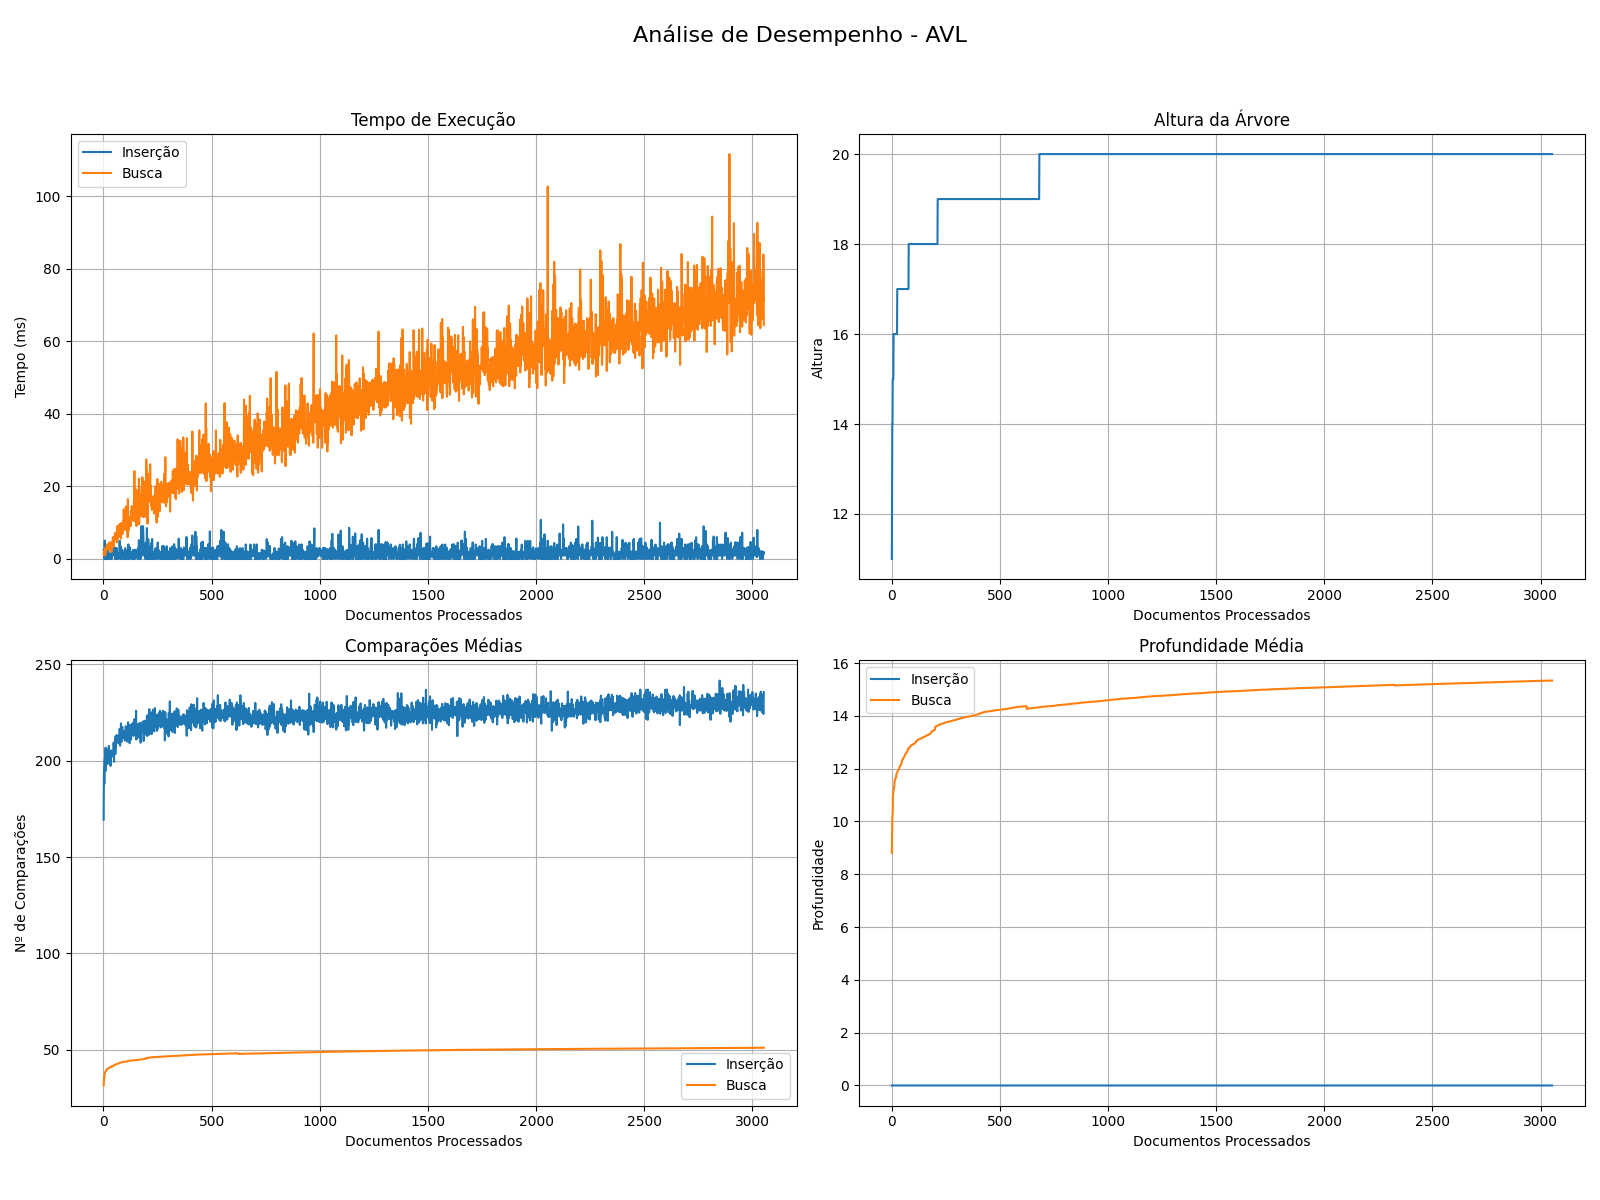
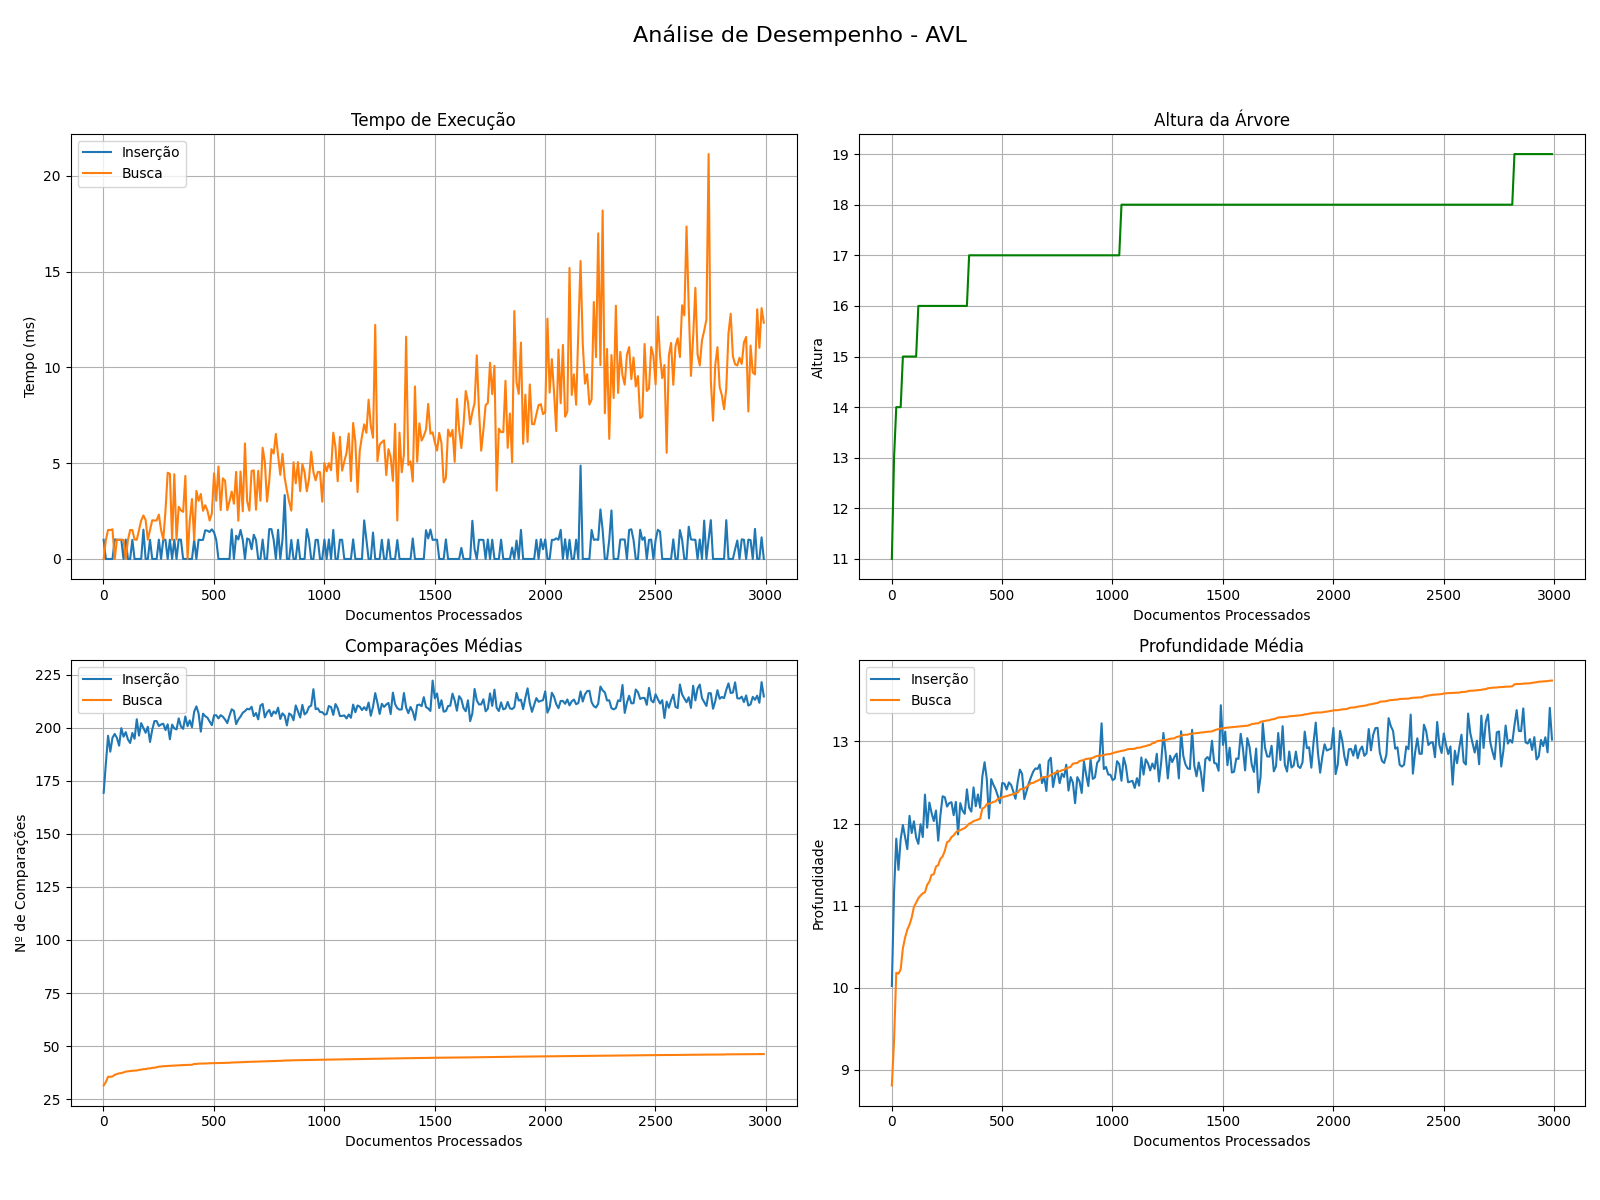
Graficos e relatório atualizado

diff --git a/analysis/bst.py b/analysis/bst.py
@@ -3,7 +3,8 @@ import matplotlib.pyplot as plt
 import os
 
 def plot_all_metrics_separately(df, tree_name, output_dir):
-    """Gera 6 gráficos de desempenho, um para cada métrica principal, em arquivos separados."""
+    """Gera 6 gráficos de desempenho, um para cada métrica principal, e um grafico agrupado, salvando-os em arquivos separados."""
+    
     os.makedirs(output_dir, exist_ok=True)
     x_axis = "num_docs_processados"
 
@@ -70,8 +71,51 @@ def plot_all_metrics_separately(df, tree_name, output_dir):
     plt.grid(True)
     plt.savefig(f"{output_dir}/{tree_name}_profundidade_media.png")
     plt.close()
+    
+    # Geração do grafico agrupado
+    
+    fig, axes = plt.subplots(2, 2, figsize=(16, 12))
+    fig.suptitle(f'Análise de Desempenho - {tree_name.upper()}', fontsize=16)
+    
+    # 1: Tempo de Execução
+    axes[0, 0].plot(df[x_axis], df["tempo_insercao_doc_ms"], label="Inserção")
+    axes[0, 0].plot(df[x_axis], df["tempo_busca_total_ms"], label="Busca")
+    axes[0, 0].set_title("Tempo de Execução")
+    axes[0, 0].set_ylabel("Tempo (ms)")
+    axes[0, 0].legend()
+    axes[0, 0].grid(True)
 
-    print(f"6 gráficos de análise para {tree_name.upper()} salvos em '{output_dir}'.")
+    # 2: Altura da Árvore
+    axes[0, 1].plot(df[x_axis], df["altura_arvore"], color='green')
+    axes[0, 1].set_title("Altura da Árvore")
+    axes[0, 1].set_ylabel("Altura")
+    axes[0, 1].grid(True)
+
+    # 3: Comparações Médias
+    axes[1, 0].plot(df[x_axis], df["comp_insercao_media"], label="Inserção")
+    axes[1, 0].plot(df[x_axis], df["comp_busca_media"], label="Busca")
+    axes[1, 0].set_title("Comparações Médias")
+    axes[1, 0].set_ylabel("Nº de Comparações")
+    axes[1, 0].legend()
+    axes[1, 0].grid(True)
+
+    # 4: Profundidade Média
+    axes[1, 1].plot(df[x_axis], df["prof_insercao_media"], label="Inserção")
+    axes[1, 1].plot(df[x_axis], df["prof_busca_media"], label="Busca")
+    axes[1, 1].set_title("Profundidade Média")
+    axes[1, 1].set_ylabel("Profundidade")
+    axes[1, 1].legend()
+    axes[1, 1].grid(True)
+    
+    for ax in axes.flat:
+        ax.set_xlabel("Documentos Processados")
+
+    plt.tight_layout(rect=[0, 0.03, 1, 0.95])
+    plt.savefig(f"{output_dir}/{tree_name}_analise_completa.png")
+    plt.close()
+
+
+    print(f"Gráficos individuais e agrupado para {tree_name.upper()} salvos.")
 
 if __name__ == "__main__":
     plot_all_metrics_separately(

diff --git a/analysis/avl.py b/analysis/avl.py
@@ -3,7 +3,8 @@ import matplotlib.pyplot as plt
 import os
 
 def plot_all_metrics_separately(df, tree_name, output_dir):
-    """Gera 6 gráficos de desempenho, um para cada métrica principal, em arquivos separados."""
+    """Gera 6 gráficos de desempenho, um para cada métrica principal, e um grafico agrupado, salvando-os em arquivos separados."""
+    
     os.makedirs(output_dir, exist_ok=True)
     x_axis = "num_docs_processados"
 
@@ -70,8 +71,50 @@ def plot_all_metrics_separately(df, tree_name, output_dir):
     plt.grid(True)
     plt.savefig(f"{output_dir}/{tree_name}_profundidade_media.png")
     plt.close()
+    
+    # Geração do grafico agrupado
+    
+    fig, axes = plt.subplots(2, 2, figsize=(16, 12))
+    fig.suptitle(f'Análise de Desempenho - {tree_name.upper()}', fontsize=16)
+    
+    # 1: Tempo de Execução
+    axes[0, 0].plot(df[x_axis], df["tempo_insercao_doc_ms"], label="Inserção")
+    axes[0, 0].plot(df[x_axis], df["tempo_busca_total_ms"], label="Busca")
+    axes[0, 0].set_title("Tempo de Execução")
+    axes[0, 0].set_ylabel("Tempo (ms)")
+    axes[0, 0].legend()
+    axes[0, 0].grid(True)
 
-    print(f"6 gráficos de análise para {tree_name.upper()} salvos em '{output_dir}'.")
+    # 2: Altura da Árvore
+    axes[0, 1].plot(df[x_axis], df["altura_arvore"], color='green')
+    axes[0, 1].set_title("Altura da Árvore")
+    axes[0, 1].set_ylabel("Altura")
+    axes[0, 1].grid(True)
+
+    # 3: Comparações Médias
+    axes[1, 0].plot(df[x_axis], df["comp_insercao_media"], label="Inserção")
+    axes[1, 0].plot(df[x_axis], df["comp_busca_media"], label="Busca")
+    axes[1, 0].set_title("Comparações Médias")
+    axes[1, 0].set_ylabel("Nº de Comparações")
+    axes[1, 0].legend()
+    axes[1, 0].grid(True)
+
+    # 4: Profundidade Média
+    axes[1, 1].plot(df[x_axis], df["prof_insercao_media"], label="Inserção")
+    axes[1, 1].plot(df[x_axis], df["prof_busca_media"], label="Busca")
+    axes[1, 1].set_title("Profundidade Média")
+    axes[1, 1].set_ylabel("Profundidade")
+    axes[1, 1].legend()
+    axes[1, 1].grid(True)
+    
+    for ax in axes.flat:
+        ax.set_xlabel("Documentos Processados")
+
+    plt.tight_layout(rect=[0, 0.03, 1, 0.95])
+    plt.savefig(f"{output_dir}/{tree_name}_analise_completa.png")
+    plt.close()
+
+    print(f"Gráficos individuais e agrupado para {tree_name.upper()} salvos.")
 
 if __name__ == "__main__":
     plot_all_metrics_separately(

diff --git a/analysis/rbt.py b/analysis/rbt.py
@@ -3,7 +3,8 @@ import matplotlib.pyplot as plt
 import os
 
 def plot_all_metrics_separately(df, tree_name, output_dir):
-    """Gera 6 gráficos de desempenho, um para cada métrica principal, em arquivos separados."""
+    """Gera 6 gráficos de desempenho, um para cada métrica principal, e um grafico agrupado, salvando-os em arquivos separados."""
+
     os.makedirs(output_dir, exist_ok=True)
     x_axis = "num_docs_processados"
 
@@ -70,8 +71,49 @@ def plot_all_metrics_separately(df, tree_name, output_dir):
     plt.grid(True)
     plt.savefig(f"{output_dir}/{tree_name}_profundidade_media.png")
     plt.close()
+    
+    # Geração do grafico agrupado
+    fig, axes = plt.subplots(2, 2, figsize=(16, 12))
+    fig.suptitle(f'Análise de Desempenho - {tree_name.upper()}', fontsize=16)
+    
+    # 1: Tempo de Execução
+    axes[0, 0].plot(df[x_axis], df["tempo_insercao_doc_ms"], label="Inserção")
+    axes[0, 0].plot(df[x_axis], df["tempo_busca_total_ms"], label="Busca")
+    axes[0, 0].set_title("Tempo de Execução")
+    axes[0, 0].set_ylabel("Tempo (ms)")
+    axes[0, 0].legend()
+    axes[0, 0].grid(True)
 
-    print(f"6 gráficos de análise para {tree_name.upper()} salvos em '{output_dir}'.")
+    # 2: Altura da Árvore
+    axes[0, 1].plot(df[x_axis], df["altura_arvore"], color='green')
+    axes[0, 1].set_title("Altura da Árvore")
+    axes[0, 1].set_ylabel("Altura")
+    axes[0, 1].grid(True)
+
+    # 3: Comparações Médias
+    axes[1, 0].plot(df[x_axis], df["comp_insercao_media"], label="Inserção")
+    axes[1, 0].plot(df[x_axis], df["comp_busca_media"], label="Busca")
+    axes[1, 0].set_title("Comparações Médias")
+    axes[1, 0].set_ylabel("Nº de Comparações")
+    axes[1, 0].legend()
+    axes[1, 0].grid(True)
+
+    # 4: Profundidade Média
+    axes[1, 1].plot(df[x_axis], df["prof_insercao_media"], label="Inserção")
+    axes[1, 1].plot(df[x_axis], df["prof_busca_media"], label="Busca")
+    axes[1, 1].set_title("Profundidade Média")
+    axes[1, 1].set_ylabel("Profundidade")
+    axes[1, 1].legend()
+    axes[1, 1].grid(True)
+    
+    for ax in axes.flat:
+        ax.set_xlabel("Documentos Processados")
+
+    plt.tight_layout(rect=[0, 0.03, 1, 0.95])
+    plt.savefig(f"{output_dir}/{tree_name}_analise_completa.png")
+    plt.close()
+
+    print(f"Gráficos individuais e agrupado para {tree_name.upper()} salvos.")
 
 if __name__ == "__main__":
     plot_all_metrics_separately(
